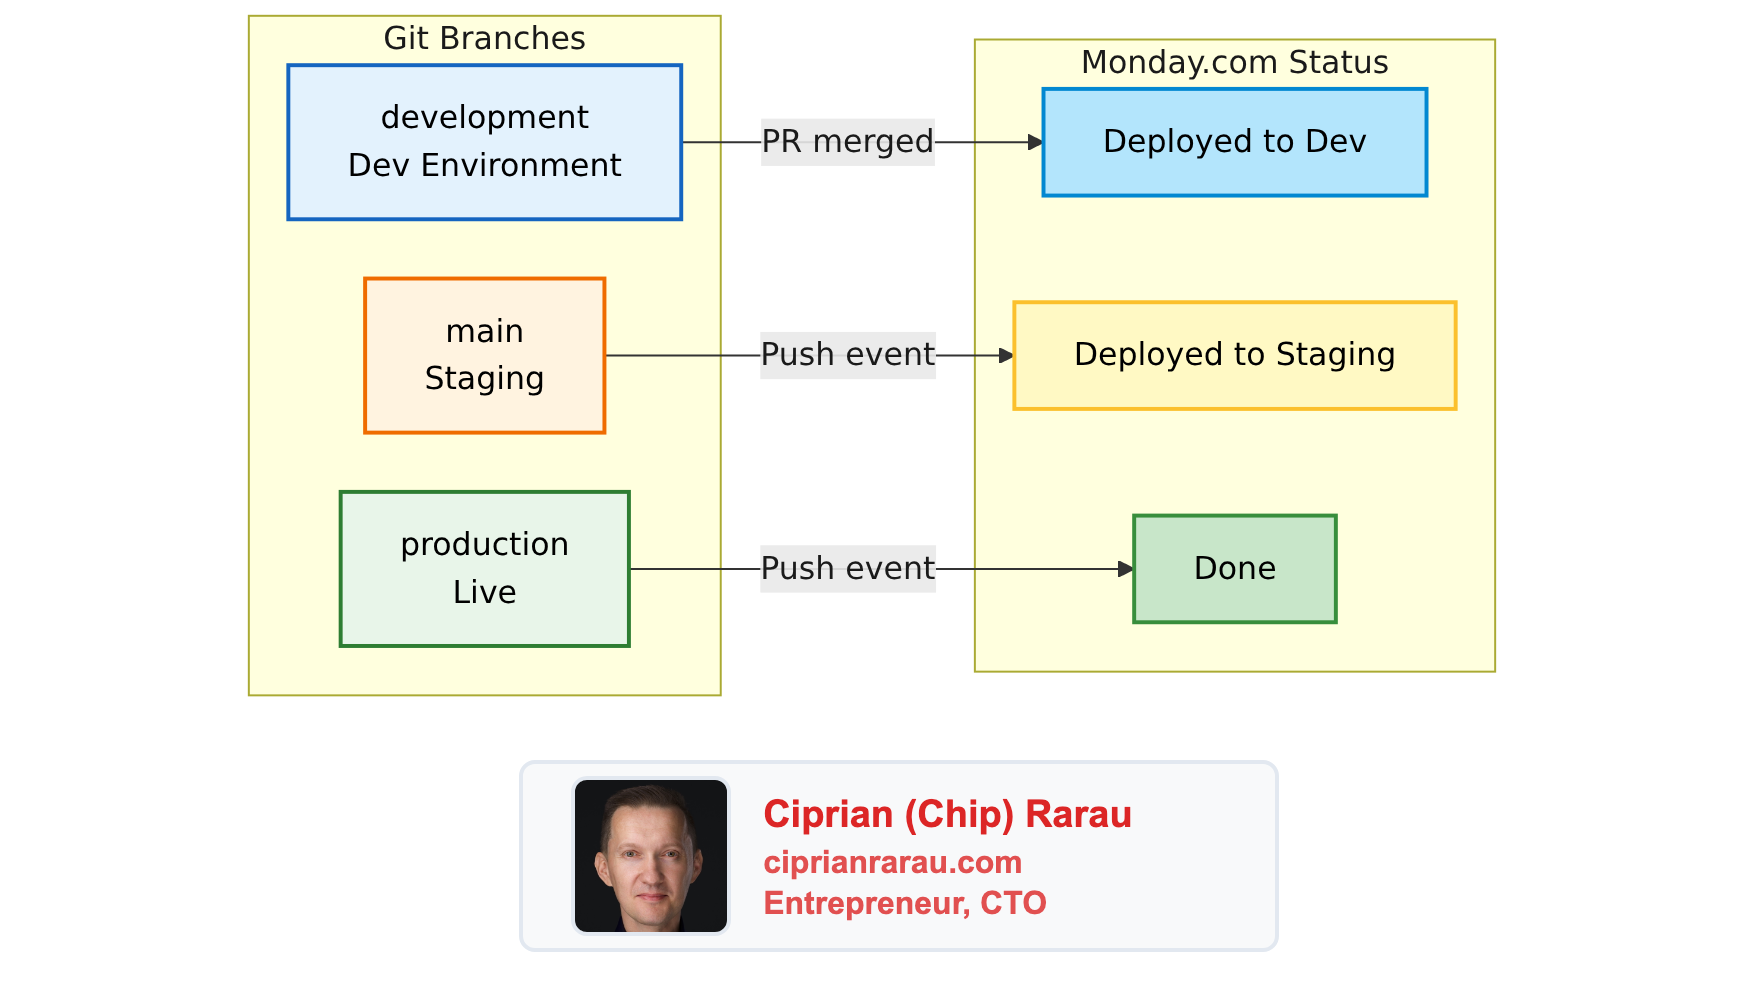
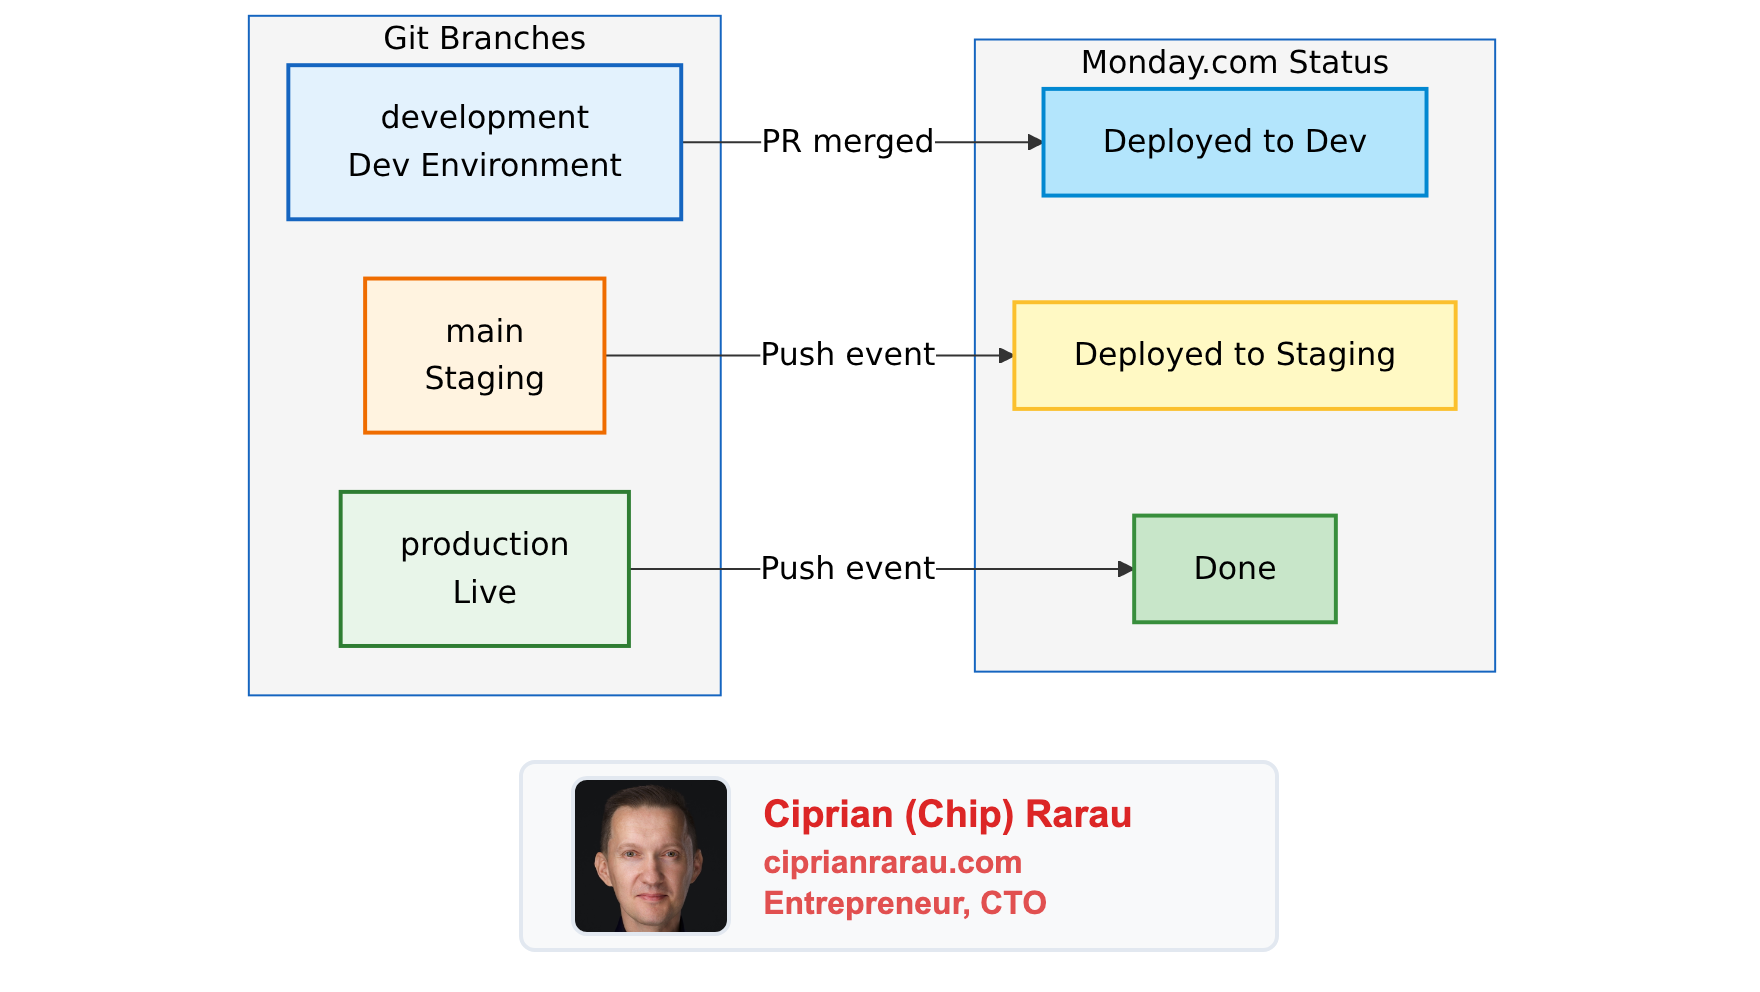
Regenerate diagrams with fixed mermaid config
All 28 diagrams regenerated with proper base theme:
- White backgrounds with blue borders
- Readable black text
- Proper sequence diagram actor sizing

diff --git a/src/data/post/github-monday-integration.md b/src/data/post/github-monday-integration.md
@@ -62,7 +62,7 @@ flowchart TB
     style STATUS_PROD fill:#E1BEE7,stroke:#7B1FA2,stroke-width:2px,color:#000
 ```
 
-![Diagram 1](/images/diagrams/github-monday-integration-diagram-45398a0b.png?v=0c79a587)
+![Diagram 1](/images/diagrams/github-monday-integration-diagram-45398a0b.png?v=88ad65c9)
 
 The Monday task becomes a single source of truth that reflects exactly where the code is in the pipeline.
 
@@ -107,7 +107,7 @@ graph TB
     style TASK fill:#C8E6C9,stroke:#388E3C,stroke-width:2px,color:#000
 ```
 
-![Diagram 2](/images/diagrams/github-monday-integration-diagram-b2ddc22b.png?v=0c79a587)
+![Diagram 2](/images/diagrams/github-monday-integration-diagram-b2ddc22b.png?v=88ad65c9)
 
 ### The Key Components
 
@@ -179,7 +179,7 @@ flowchart LR
     style DONE fill:#C8E6C9,stroke:#388E3C,stroke-width:2px,color:#000
 ```
 
-![Diagram 3](/images/diagrams/github-monday-integration-diagram-68bd9c3f.png?v=0c79a587)
+![Diagram 3](/images/diagrams/github-monday-integration-diagram-68bd9c3f.png?v=88ad65c9)
 
 When code moves through branches, Monday.com tasks move through statuses. No manual intervention required.
 
@@ -212,7 +212,7 @@ flowchart TB
     style FAIL3 fill:#FFCDD2,stroke:#C62828,stroke-width:2px,color:#000
 ```
 
-![Diagram 4](/images/diagrams/github-monday-integration-diagram-e20f9b23.png?v=0c79a587)
+![Diagram 4](/images/diagrams/github-monday-integration-diagram-e20f9b23.png?v=88ad65c9)
 
 The validation actually calls the Monday.com API to verify the task exists. No more broken links.
 

diff --git a/src/data/post/company-docs-dna-of-the-business.md b/src/data/post/company-docs-dna-of-the-business.md
@@ -60,7 +60,7 @@ flowchart TD
     style D fill:#90EE90,stroke:#333,stroke-width:2px
 ```
 
-![Diagram 1](/images/diagrams/company-docs-dna-of-the-business-diagram-8ce6cc15.png?v=0c79a587)
+![Diagram 1](/images/diagrams/company-docs-dna-of-the-business-diagram-8ce6cc15.png?v=88ad65c9)
 
 ```mermaid
 flowchart TD
@@ -86,7 +86,7 @@ flowchart TD
     style E fill:#87CEEB,stroke:#333,stroke-width:2px
 ```
 
-![Diagram 2](/images/diagrams/company-docs-dna-of-the-business-diagram-77c83ced.png?v=0c79a587)
+![Diagram 2](/images/diagrams/company-docs-dna-of-the-business-diagram-77c83ced.png?v=88ad65c9)
 
 The documentation covers:
 
@@ -130,7 +130,7 @@ flowchart LR
     style F fill:#90EE90,stroke:#333,stroke-width:2px
 ```
 
-![Diagram 3](/images/diagrams/company-docs-dna-of-the-business-diagram-0ecbac7e.png?v=0c79a587)
+![Diagram 3](/images/diagrams/company-docs-dna-of-the-business-diagram-0ecbac7e.png?v=88ad65c9)
 
 The documentation site deploys through CI/CD just like any other service:
 
@@ -185,7 +185,7 @@ flowchart TD
     style G fill:#90EE90,stroke:#333,stroke-width:2px
 ```
 
-![Diagram 4](/images/diagrams/company-docs-dna-of-the-business-diagram-ec6924f0.png?v=0c79a587)
+![Diagram 4](/images/diagrams/company-docs-dna-of-the-business-diagram-ec6924f0.png?v=88ad65c9)
 
 ## Why This Works Now
 

diff --git a/src/data/post/aws-to-azure-migration.md b/src/data/post/aws-to-azure-migration.md
@@ -67,7 +67,7 @@ flowchart TD
     style C2 fill:#f9d5e5,stroke:#333,stroke-width:3px
 ```
 
-![Diagram 1](/images/diagrams/aws-to-azure-migration-diagram-d04bf085.png?v=0c79a587)
+![Diagram 1](/images/diagrams/aws-to-azure-migration-diagram-d04bf085.png?v=88ad65c9)
 
 ## The Three-Environment Strategy
 
@@ -300,7 +300,7 @@ flowchart LR
     style F fill:#c8e6c9
 ```
 
-![Diagram 2](/images/diagrams/aws-to-azure-migration-diagram-f5cf32af.png?v=0c79a587)
+![Diagram 2](/images/diagrams/aws-to-azure-migration-diagram-f5cf32af.png?v=88ad65c9)
 
 ### The Cutover Window
 
@@ -340,7 +340,7 @@ flowchart LR
     style C fill:#e0e0e0
 ```
 
-![Diagram 3](/images/diagrams/aws-to-azure-migration-diagram-ca6aecb0.png?v=0c79a587)
+![Diagram 3](/images/diagrams/aws-to-azure-migration-diagram-ca6aecb0.png?v=88ad65c9)
 
 ### Rollback Plan
 

diff --git a/src/data/post/meta-repository-pattern.md b/src/data/post/meta-repository-pattern.md
@@ -121,7 +121,7 @@ flowchart TD
     style D2 fill:#90EE90,stroke:#333,stroke-width:2px
 ```
 
-![Diagram 1](/images/diagrams/meta-repository-pattern-diagram-30d78660.png?v=0c79a587)
+![Diagram 1](/images/diagrams/meta-repository-pattern-diagram-30d78660.png?v=88ad65c9)
 
 The Source Control panel shows changes grouped by repository. I can see at a glance what's modified across the entire company.
 
@@ -152,7 +152,7 @@ flowchart TD
     style D fill:#87CEEB,stroke:#333,stroke-width:2px
 ```
 
-![Diagram 2](/images/diagrams/meta-repository-pattern-diagram-9ea8338e.png?v=0c79a587)
+![Diagram 2](/images/diagrams/meta-repository-pattern-diagram-9ea8338e.png?v=88ad65c9)
 
 The meta-level `CLAUDE.md` contains company-wide rules:
 - No AI attribution in commits

diff --git a/src/data/post/appstore-webhooks-automated-release-notes.md b/src/data/post/appstore-webhooks-automated-release-notes.md
@@ -73,7 +73,7 @@ flowchart TD
     style J fill:#87CEEB,stroke:#333,stroke-width:2px
 ```
 
-![Diagram 1](/images/diagrams/appstore-webhooks-automated-release-notes-diagram-34c04c66.png?v=0c79a587)
+![Diagram 1](/images/diagrams/appstore-webhooks-automated-release-notes-diagram-34c04c66.png?v=88ad65c9)
 
 ## What Apple Sends
 
@@ -593,7 +593,7 @@ sequenceDiagram
     Note over Slack: ✅ My App Build Ready<br/>Version: 1.2.3 Build: 236<br/>• abc1234 Add dark mode<br/>• def5678 Fix login bug
 ```
 
-![Diagram 2](/images/diagrams/appstore-webhooks-automated-release-notes-diagram-f70a1e74.png?v=0c79a587)
+![Diagram 2](/images/diagrams/appstore-webhooks-automated-release-notes-diagram-f70a1e74.png?v=88ad65c9)
 
 ## Machine-Readable Summary
 

diff --git a/src/data/post/slack-configuration-as-code.md b/src/data/post/slack-configuration-as-code.md
@@ -60,7 +60,7 @@ flowchart TD
     style K fill:#87CEEB,stroke:#333,stroke-width:2px
 ```
 
-![Diagram 1](/images/diagrams/slack-configuration-as-code-diagram-43793164.png?v=0c79a587)
+![Diagram 1](/images/diagrams/slack-configuration-as-code-diagram-43793164.png?v=88ad65c9)
 
 ## Configuration Structure
 
@@ -443,7 +443,7 @@ flowchart TD
     style B fill:#90EE90,stroke:#333,stroke-width:2px
 ```
 
-![Diagram 2](/images/diagrams/slack-configuration-as-code-diagram-a7e29fa5.png?v=0c79a587)
+![Diagram 2](/images/diagrams/slack-configuration-as-code-diagram-a7e29fa5.png?v=88ad65c9)
 
 One bot, one token, multiple purposes:
 - **Channel Manager**: Adds users to channels

diff --git a/src/data/post/specs-as-single-source-of-truth.md b/src/data/post/specs-as-single-source-of-truth.md
@@ -59,7 +59,7 @@ flowchart TD
     style N fill:#87CEEB,stroke:#333,stroke-width:2px
 ```
 
-![Diagram 1](/images/diagrams/specs-as-single-source-of-truth-diagram-a603cb55.png?v=0c79a587)
+![Diagram 1](/images/diagrams/specs-as-single-source-of-truth-diagram-a603cb55.png?v=88ad65c9)
 
 ## Specification Structure
 
@@ -149,7 +149,7 @@ flowchart LR
     F --> H[Marketing Copy]
 ```
 
-![Diagram 2](/images/diagrams/specs-as-single-source-of-truth-diagram-fd2e4a3a.png?v=0c79a587)
+![Diagram 2](/images/diagrams/specs-as-single-source-of-truth-diagram-fd2e4a3a.png?v=88ad65c9)
 
 ## Help Articles from Specs
 

diff --git a/src/data/post/ai-powered-alert-summarizer.md b/src/data/post/ai-powered-alert-summarizer.md
@@ -60,7 +60,7 @@ flowchart TD
     style E fill:#f9d5e5,stroke:#333,stroke-width:2px
 ```
 
-![Diagram 1](/images/diagrams/ai-powered-alert-summarizer-diagram-d0dc0c99.png?v=0c79a587)
+![Diagram 1](/images/diagrams/ai-powered-alert-summarizer-diagram-d0dc0c99.png?v=88ad65c9)
 
 ```mermaid
 flowchart TD
@@ -72,7 +72,7 @@ flowchart TD
     style B fill:#87CEEB,stroke:#333,stroke-width:2px
 ```
 
-![Diagram 2](/images/diagrams/ai-powered-alert-summarizer-diagram-9ce2abb8.png?v=0c79a587)
+![Diagram 2](/images/diagrams/ai-powered-alert-summarizer-diagram-9ce2abb8.png?v=88ad65c9)
 
 ## The Architecture
 

diff --git a/src/data/post/voice-analytics-revolution.md b/src/data/post/voice-analytics-revolution.md
@@ -76,7 +76,7 @@ flowchart TD
     style J fill:#fce4ec,stroke:#c2185b,stroke-width:2px
 ```
 
-![Diagram 1](/images/diagrams/voice-analytics-revolution-diagram-ed3adc54.png?v=0c79a587)
+![Diagram 1](/images/diagrams/voice-analytics-revolution-diagram-ed3adc54.png?v=88ad65c9)
 
 The magic happens in the middle: AI doesn't just transcribe what I say—it predicts what I'm about to say based on context. And on the receiving end, the LLM doesn't just parse my words—it understands my intent.
 

diff --git a/src/data/post/devops-across-clouds-production-first.md b/src/data/post/devops-across-clouds-production-first.md
@@ -75,7 +75,7 @@ flowchart TD
     style L fill:#87CEEB,stroke:#333,stroke-width:3px
 ```
 
-![Diagram 1](/images/diagrams/devops-across-clouds-production-first-diagram-ab3bc984.png?v=0c79a587)
+![Diagram 1](/images/diagrams/devops-across-clouds-production-first-diagram-ab3bc984.png?v=88ad65c9)
 
 ## Infrastructure as Code: The Foundation of Everything
 

diff --git a/src/data/post/production-first-mindset-evolution.md b/src/data/post/production-first-mindset-evolution.md
@@ -37,7 +37,7 @@ flowchart TD
     style H fill:#e3f2fd,stroke:#333,stroke-width:3px
 ```
 
-![Diagram 1](/images/diagrams/production-first-mindset-evolution-diagram-a78f2c23.png?v=0c79a587)
+![Diagram 1](/images/diagrams/production-first-mindset-evolution-diagram-a78f2c23.png?v=88ad65c9)
 
 ## The Post-Login Reality
 

diff --git a/src/data/post/sentry-configuration-as-code.md b/src/data/post/sentry-configuration-as-code.md
@@ -53,7 +53,7 @@ flowchart TD
     style B fill:#90EE90,stroke:#333,stroke-width:2px
 ```
 
-![Diagram 1](/images/diagrams/sentry-configuration-as-code-diagram-16783202.png?v=0c79a587)
+![Diagram 1](/images/diagrams/sentry-configuration-as-code-diagram-16783202.png?v=88ad65c9)
 
 ## YAML Configuration Structure
 
